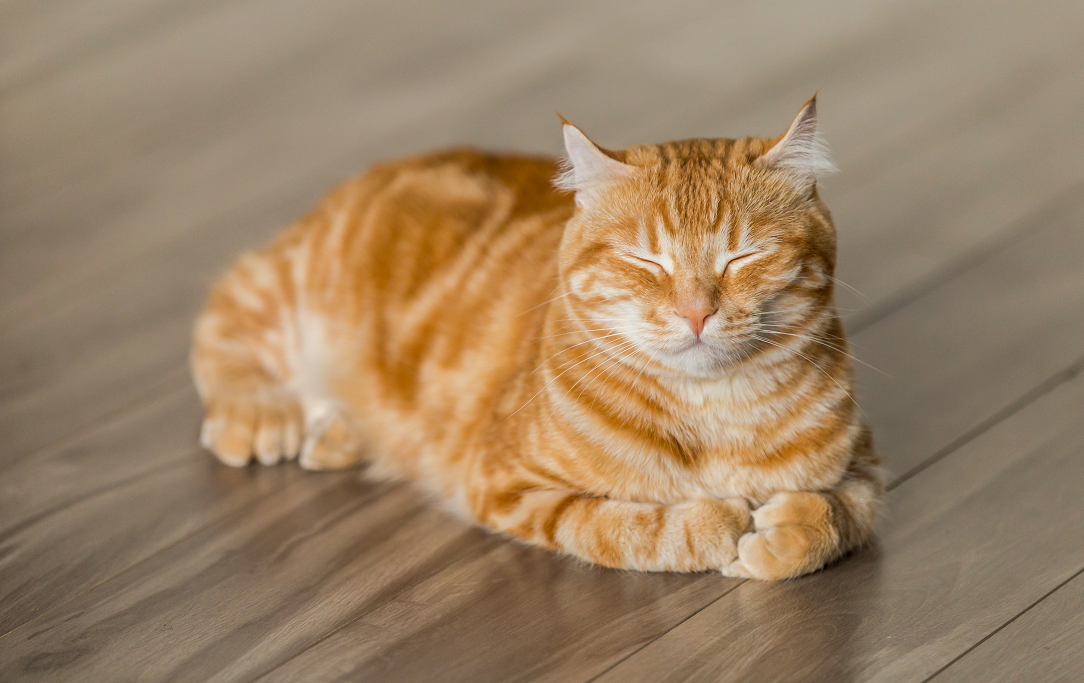
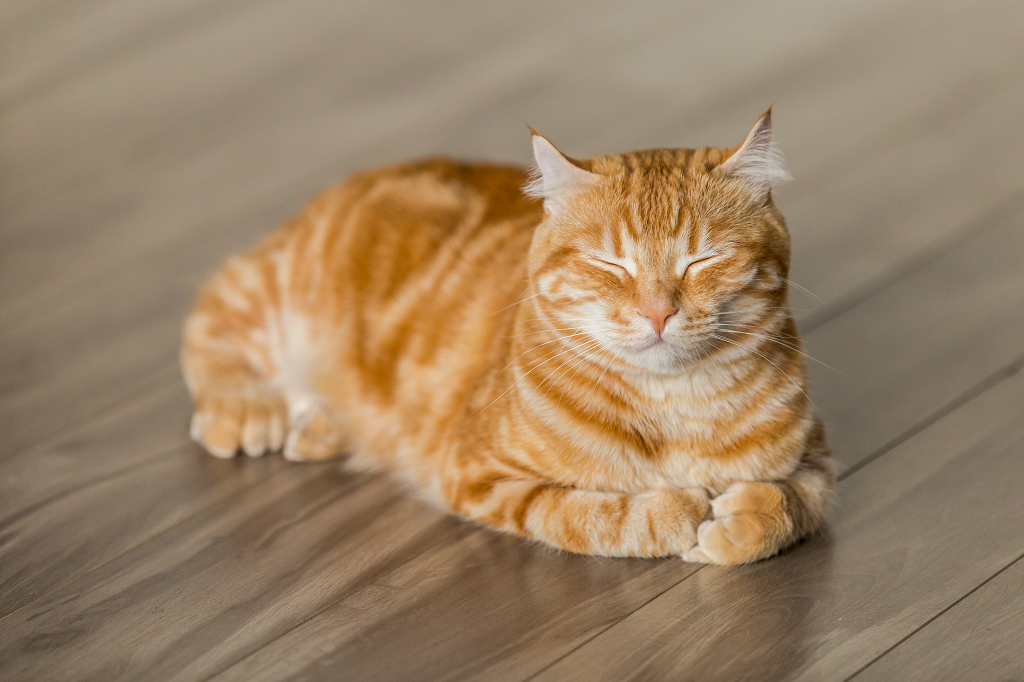
Cat pictures update
Two new cat pictures for about.html

diff --git a/src/page/about.html b/src/page/about.html
@@ -100,7 +100,7 @@
 
 		<div class="col">
 			<div class="card">
-					<img class="card-img-top" src="../images/cat-cover.png" alt="Card image cap">
+					<img class="card-img-top" src="../images/cat-cover4.png" alt="Card image cap">
 				<div class="card-body">
 					<h5 class="card-title">Lordship Cat</h5>
 					<h6 class="card-title">Overseer on the fridge</h6>
